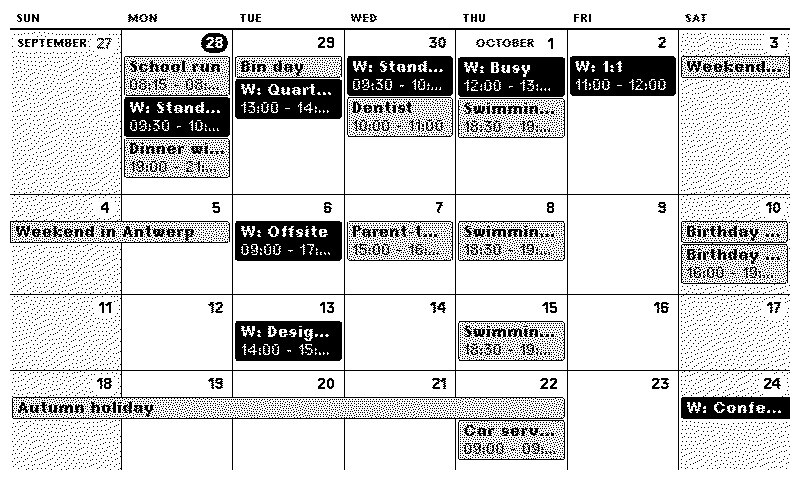
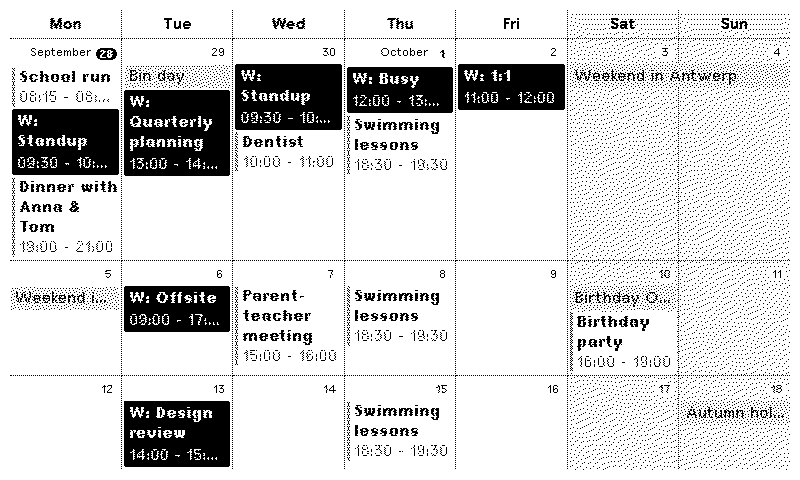
Match the upstream month-layout look
Restyle after the Google Calendar month-layout preview: thin grey grid
lines (dotted on 1-/2-bit), centred bold day headers with the weekend
shaded, small regular-weight day numbers, timed events as a grey bar
with a bold wrapping title and the time in grey below, and all-day
events as light grey bars with black text. Calendars with a configured
color keep their filled background.

Claude-Session: https://claude.ai/code/session_01NUfQZbey5uqSoJDLA5m21y

Changed region(s): [[0.0, 0.0312, 1.0, 1.0], [0.375, 0.3125, 0.4375, 0.3438], [0.75, 0.5312, 0.7812, 0.5625]]

diff --git a/UPSTREAM.md b/UPSTREAM.md
@@ -38,8 +38,11 @@ Forked from [usetrmnl/plugins](https://github.com/usetrmnl/plugins), `lib/calend
   grid CSS in `shared.liquid` is written from scratch and sized with `--ui-scale`.
 - **Transform fix**: `getBoundingClientRect()` is corrected inside the calendar, so
   FullCalendar sizes correctly under the framework's `transform: scale(--pixel-ratio)`.
-- **Event times**: on their own line, like upstream, but below the title instead of
-  above it (CSS on FullCalendar's default event markup).
+- **Event look**: matched to upstream's month-layout preview. Timed events use
+  FullCalendar's dot, restyled as a grey bar on the left, with a bold title that wraps
+  and the time in grey below it. All-day events get a light grey fill (`bg--gray-70`).
+  Grid lines are thin grey (dotted on 1-/2-bit), headers are centred and bold with the
+  weekend shaded, and day numbers are small.
 - **Title bar**: the framework's `title_bar` with the visible date range replaces
   FullCalendar's `headerToolbar` (`month_header`).
 - **Removed**: time-grid helpers (`trmnlAllDaySlotAuto`, `trmnlSlotBoundsAuto`, the

diff --git a/README.md b/README.md
@@ -127,8 +127,9 @@ the first entity, and so on. Use `-` for a calendar that should have none. For e
     colors on color panels.
   - Hex colors are painted as-is. Without dithering, a 1-bit screen snaps them to black
     or white.
-- Events without a calendar color keep the default look: black all-day blocks and
-  dotted timed events. So give the other calendars a grey if they need to stand out.
+- Events without a calendar color use the upstream look: timed events get a grey bar
+  on the left with the time in grey below the title, and all-day events a light grey
+  bar.
 
 ## TRMNL framework
 
